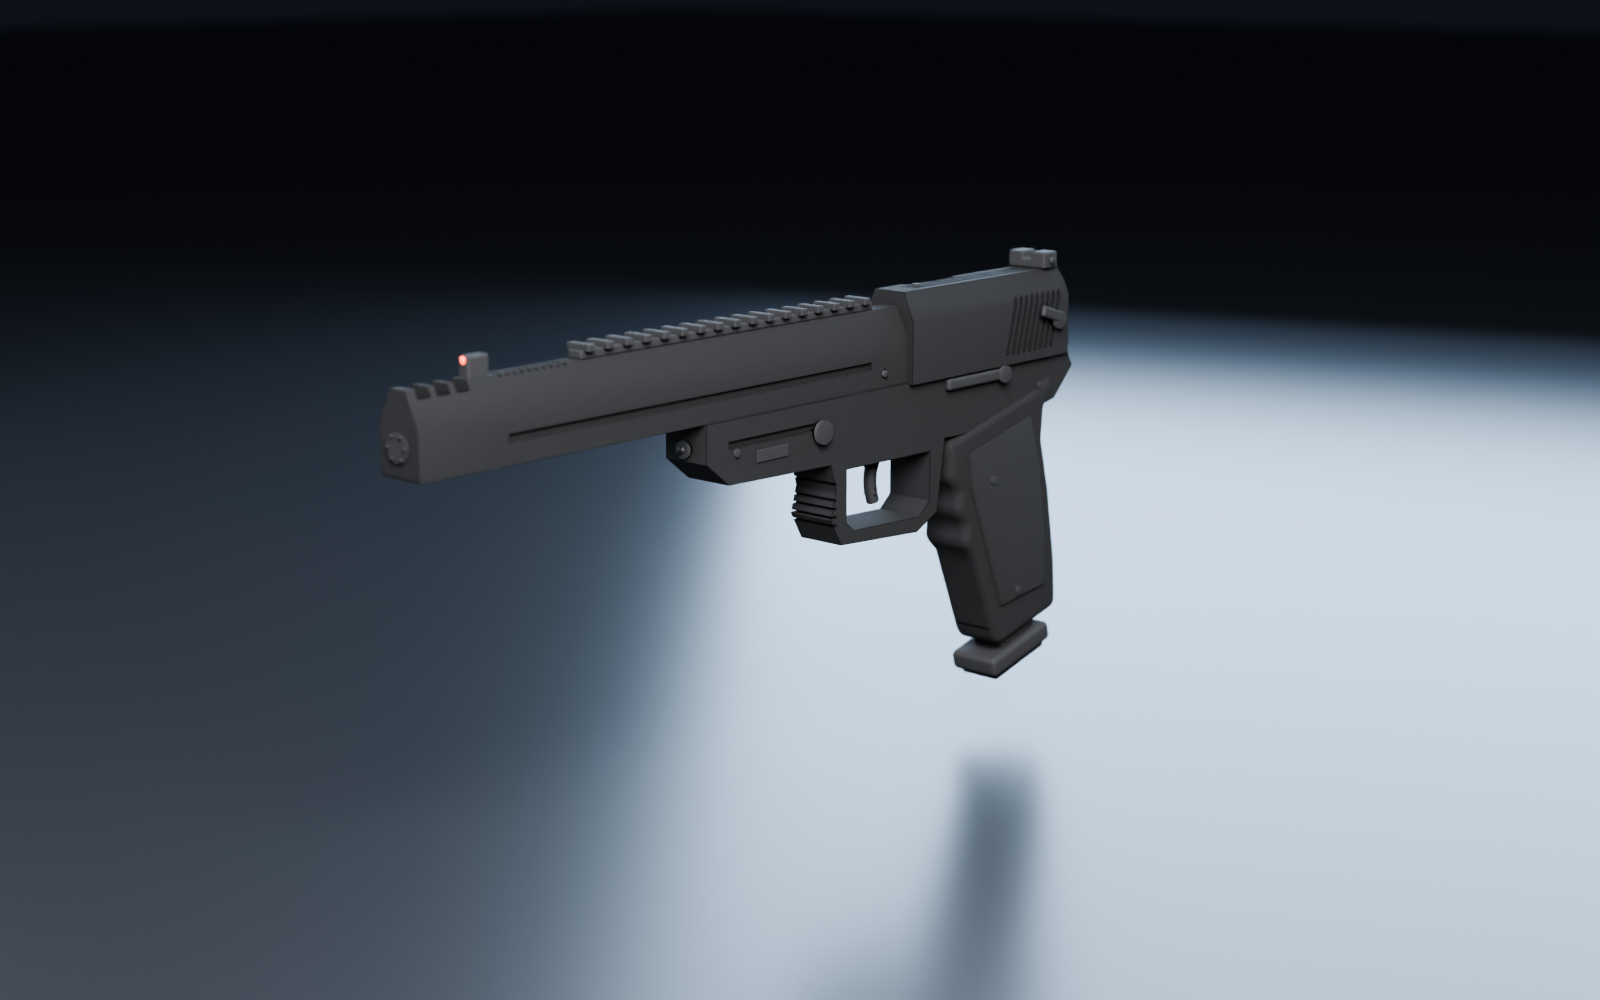
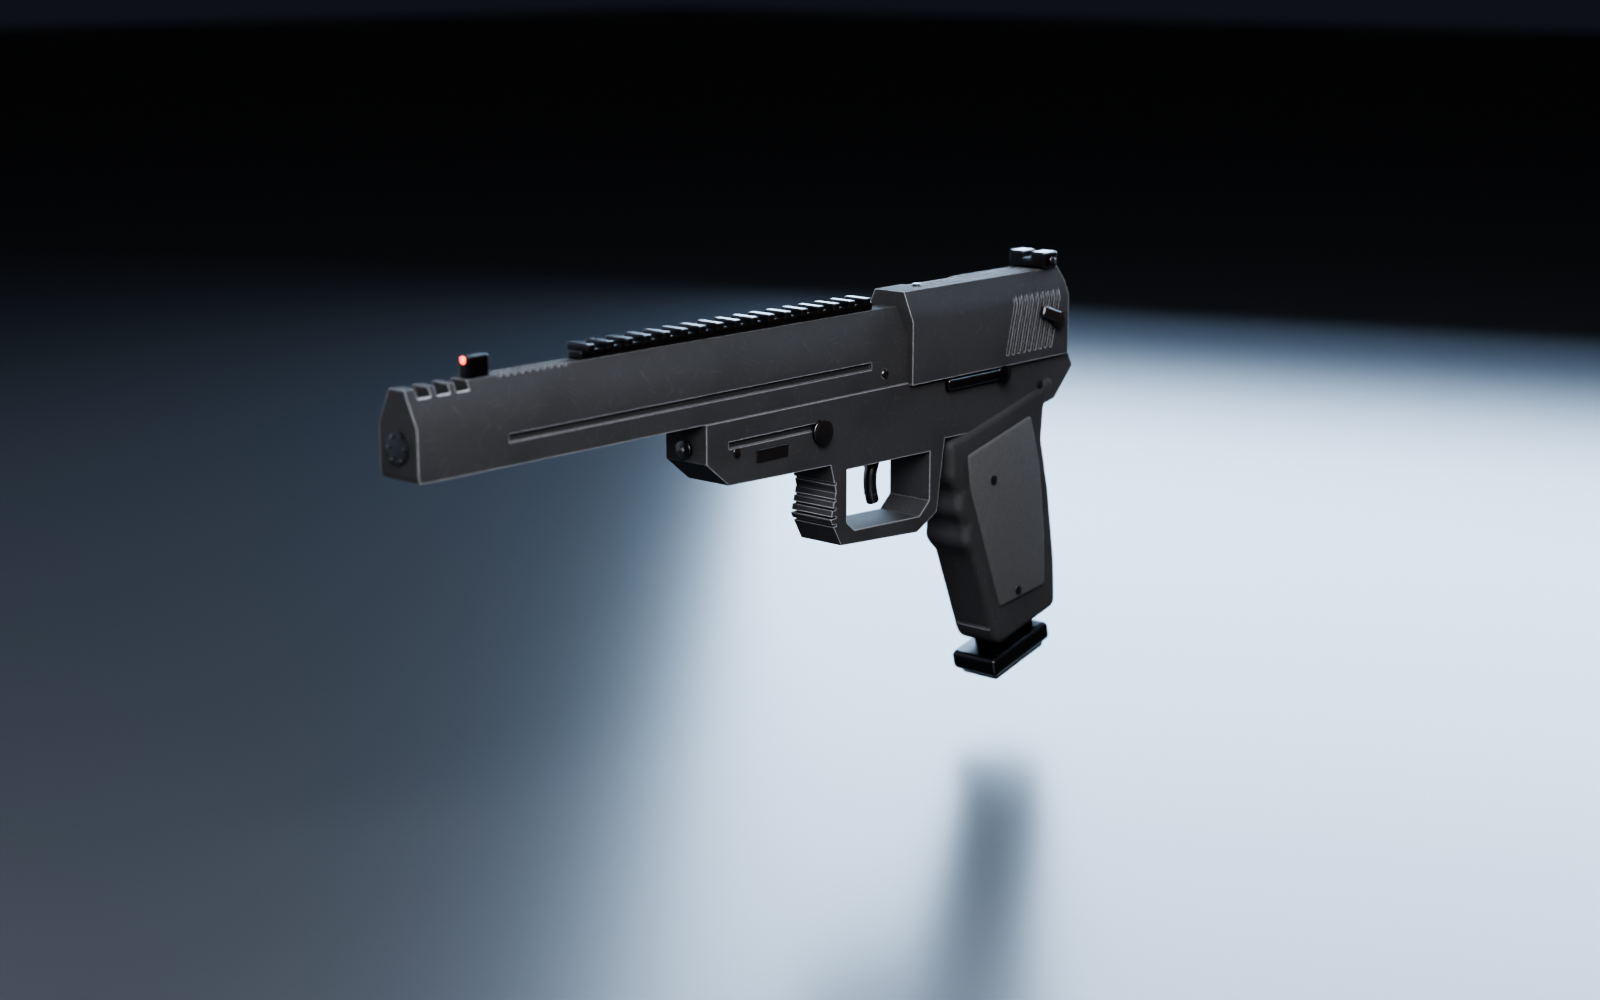
Sovereign : rendu métal peint façon GTA (reflets studio, usure, pièces noires)
Claude-Session: https://claude.ai/code/session_01AyMZd2BC6KgDPCXRnUBJSV

diff --git a/originrp_sovereign/design/blib.py b/originrp_sovereign/design/blib.py
@@ -1,0 +1,189 @@
+# Outils de modélisation « hard surface » + matières usées façon armes GTA
+import bpy, bmesh, math
+from mathutils import Vector, Matrix
+
+def reset():
+    bpy.ops.wm.read_factory_settings(use_empty=True)
+
+def _link(o, col=None):
+    (col or bpy.context.scene.collection).objects.link(o)
+    return o
+
+def mesh_obj(name, bm, mat=None, parent=None):
+    me = bpy.data.meshes.new(name); bm.to_mesh(me); bm.free()
+    o = bpy.data.objects.new(name, me); _link(o)
+    if mat: me.materials.append(mat)
+    for p in me.polygons: p.use_smooth = True
+    if parent: o.parent = parent
+    return o
+
+def finish(o, bevel=0.0, seg=3, angle=35, weighted=True, sub=0):
+    if bevel > 0:
+        m = o.modifiers.new('bevel', 'BEVEL'); m.width = bevel; m.segments = seg
+        m.limit_method = 'ANGLE'; m.angle_limit = math.radians(angle); m.harden_normals = False
+    if sub:
+        s = o.modifiers.new('sub', 'SUBSURF'); s.levels = sub; s.render_levels = sub
+    if weighted:
+        w = o.modifiers.new('wn', 'WEIGHTED_NORMAL'); w.keep_sharp = True
+    return o
+
+def box(name, size, loc=(0, 0, 0), mat=None, bevel=0.0, seg=3, cuts=0, shape=None, rot=(0, 0, 0), parent=None, angle=35):
+    """Pavé (option : subdivisé puis déformé par `shape(v)` pour effiler / galber)."""
+    bm = bmesh.new()
+    bmesh.ops.create_cube(bm, size=1.0)
+    if cuts:
+        bmesh.ops.subdivide_edges(bm, edges=bm.edges[:], cuts=cuts, use_grid_fill=True)
+    for v in bm.verts:
+        v.co = Vector((v.co.x * size[0], v.co.y * size[1], v.co.z * size[2]))
+        if shape: v.co = shape(v.co)
+    o = mesh_obj(name, bm, mat, parent)
+    o.location = loc; o.rotation_euler = rot
+    return finish(o, bevel, seg, angle)
+
+def cyl(name, r, h, loc=(0, 0, 0), mat=None, rot=(0, 0, 0), verts=32, bevel=0.0, seg=2, r2=None, parent=None):
+    bm = bmesh.new()
+    bmesh.ops.create_cone(bm, cap_ends=True, cap_tris=False, segments=verts, radius1=r, radius2=r2 if r2 is not None else r, depth=h)
+    o = mesh_obj(name, bm, mat, parent); o.location = loc; o.rotation_euler = rot
+    return finish(o, bevel, seg, 30)
+
+def sphere(name, r, loc=(0, 0, 0), mat=None, scale=(1, 1, 1), parent=None, seg=32):
+    bm = bmesh.new(); bmesh.ops.create_uvsphere(bm, u_segments=seg, v_segments=seg // 2, radius=r)
+    for v in bm.verts: v.co = Vector((v.co.x * scale[0], v.co.y * scale[1], v.co.z * scale[2]))
+    o = mesh_obj(name, bm, mat, parent); o.location = loc
+    return o
+
+def torus(name, R, r, loc=(0, 0, 0), mat=None, rot=(0, 0, 0), parent=None):
+    bpy.ops.mesh.primitive_torus_add(major_radius=R, minor_radius=r, major_segments=40, minor_segments=12, location=loc, rotation=rot)
+    o = bpy.context.active_object; o.name = name
+    if mat: o.data.materials.append(mat)
+    for p in o.data.polygons: p.use_smooth = True
+    if parent: o.parent = parent
+    return o
+
+def text(name, s, size, loc, rot, mat, extrude=0.0004, parent=None, align='CENTER', font_bold=True):
+    cu = bpy.data.curves.new(name, 'FONT'); cu.body = s; cu.size = size; cu.extrude = extrude; cu.align_x = align; cu.align_y = 'CENTER'
+    o = bpy.data.objects.new(name, cu); _link(o); o.location = loc; o.rotation_euler = rot
+    o.data.materials.append(mat)
+    if parent: o.parent = parent
+    return o
+
+def boolean(target, cutter, op='DIFFERENCE'):
+    m = target.modifiers.new('bool_' + cutter.name, 'BOOLEAN'); m.object = cutter; m.operation = op; m.solver = 'EXACT'
+    # booléen après le biseau : les arêtes extérieures restent arrondies
+    wn = target.modifiers.find('wn')
+    if wn >= 0: target.modifiers.move(len(target.modifiers) - 1, wn)
+    cutter.hide_render = True; cutter.hide_viewport = True; cutter.display_type = 'WIRE'
+    return m
+
+def array(o, count, offset, relative=False):
+    m = o.modifiers.new('arr', 'ARRAY'); m.count = count
+    m.use_relative_offset = relative; m.use_constant_offset = not relative; m.constant_offset_displace = offset
+    o.modifiers.move(len(o.modifiers) - 1, 0)
+    return o
+
+# ─── Matières ───
+def _nodes(mat):
+    mat.use_nodes = True; nt = mat.node_tree; nt.nodes.clear()
+    out = nt.nodes.new('ShaderNodeOutputMaterial'); bs = nt.nodes.new('ShaderNodeBsdfPrincipled')
+    nt.links.new(bs.outputs['BSDF'], out.inputs['Surface'])
+    return nt, bs
+
+def mat(name, color, rough=0.5, metal=0.0, wear=0.0, wear_color=None, wear_rough=None, grain=0.0, grain_scale=600.0, coat=0.0, emit=None, emit_strength=0.0, dust=0.0, alpha=1.0, transmission=0.0):
+    """Principled + usure des arêtes (normale biseautée vs normale réelle) + grain + poussière."""
+    m = bpy.data.materials.new(name); nt, bs = _nodes(m); L = nt.links.new
+    m["p"] = {"c": list(color), "r": rough, "m": metal, "e": list(emit) if emit else None, "es": emit_strength, "coat": coat}
+    base = nt.nodes.new('ShaderNodeRGB'); base.outputs[0].default_value = (*color, 1)
+    col_out = base.outputs[0]
+    rough_v = nt.nodes.new('ShaderNodeValue'); rough_v.outputs[0].default_value = rough; rough_out = rough_v.outputs[0]
+    if wear > 0:
+        bev = nt.nodes.new('ShaderNodeBevel'); bev.inputs['Radius'].default_value = 0.003; bev.samples = 8
+        geo = nt.nodes.new('ShaderNodeNewGeometry')
+        dot = nt.nodes.new('ShaderNodeVectorMath'); dot.operation = 'DOT_PRODUCT'
+        L(bev.outputs[0], dot.inputs[0]); L(geo.outputs['Normal'], dot.inputs[1])
+        inv = nt.nodes.new('ShaderNodeMath'); inv.operation = 'SUBTRACT'; inv.inputs[0].default_value = 1.0; L(dot.outputs['Value'], inv.inputs[1])
+        noise = nt.nodes.new('ShaderNodeTexNoise'); noise.inputs['Scale'].default_value = 90; noise.inputs['Detail'].default_value = 8
+        mul = nt.nodes.new('ShaderNodeMath'); mul.operation = 'MULTIPLY'; L(inv.outputs[0], mul.inputs[0]); L(noise.outputs['Fac'], mul.inputs[1])
+        ramp = nt.nodes.new('ShaderNodeValToRGB'); ramp.color_ramp.elements[0].position = 0.0; ramp.color_ramp.elements[1].position = max(0.01, 0.12 / wear)
+        L(mul.outputs[0], ramp.inputs['Fac'])
+        wc = nt.nodes.new('ShaderNodeRGB'); wc.outputs[0].default_value = (*(wear_color or (0.35, 0.35, 0.36)), 1)
+        mix = nt.nodes.new('ShaderNodeMix'); mix.data_type = 'RGBA'
+        L(ramp.outputs['Color'], mix.inputs['Factor']); L(col_out, mix.inputs[6]); L(wc.outputs[0], mix.inputs[7]); col_out = mix.outputs[2]
+        if wear_rough is not None:
+            mr = nt.nodes.new('ShaderNodeMix'); mr.data_type = 'FLOAT'; mr.inputs[2].default_value = rough; mr.inputs[3].default_value = wear_rough
+            L(ramp.outputs['Color'], mr.inputs['Factor']); rough_out = mr.outputs[0]
+    if dust > 0:
+        nz = nt.nodes.new('ShaderNodeTexNoise'); nz.inputs['Scale'].default_value = 25; nz.inputs['Detail'].default_value = 6
+        rp = nt.nodes.new('ShaderNodeValToRGB'); rp.color_ramp.elements[0].position = .55; rp.color_ramp.elements[1].position = .8
+        L(nz.outputs['Fac'], rp.inputs['Fac'])
+        mm = nt.nodes.new('ShaderNodeMath'); mm.operation = 'MULTIPLY'; mm.inputs[1].default_value = dust; L(rp.outputs['Color'], mm.inputs[0])
+        dc = nt.nodes.new('ShaderNodeRGB'); dc.outputs[0].default_value = (0.22, 0.2, 0.17, 1)
+        mx = nt.nodes.new('ShaderNodeMix'); mx.data_type = 'RGBA'; L(mm.outputs[0], mx.inputs['Factor']); L(col_out, mx.inputs[6]); L(dc.outputs[0], mx.inputs[7]); col_out = mx.outputs[2]
+    L(col_out, bs.inputs['Base Color']); L(rough_out, bs.inputs['Roughness'])
+    bs.inputs['Metallic'].default_value = metal
+    if coat: bs.inputs['Coat Weight'].default_value = coat; bs.inputs['Coat Roughness'].default_value = 0.08
+    if grain > 0:
+        gn = nt.nodes.new('ShaderNodeTexNoise'); gn.inputs['Scale'].default_value = grain_scale; gn.inputs['Detail'].default_value = 4
+        bp = nt.nodes.new('ShaderNodeBump'); bp.inputs['Strength'].default_value = grain; bp.inputs['Distance'].default_value = 0.0005
+        L(gn.outputs['Fac'], bp.inputs['Height']); L(bp.outputs['Normal'], bs.inputs['Normal'])
+    if emit:
+        bs.inputs['Emission Color'].default_value = (*emit, 1); bs.inputs['Emission Strength'].default_value = emit_strength
+    if transmission: bs.inputs['Transmission Weight'].default_value = transmission
+    if alpha < 1: bs.inputs['Alpha'].default_value = alpha
+    return m
+
+def carbon(name):
+    m = bpy.data.materials.new(name); nt, bs = _nodes(m); L = nt.links.new
+    m["p"] = {"c": [0.02, 0.02, 0.022], "r": 0.32, "m": 0.0, "e": None, "es": 0, "coat": 0.8}
+    tc = nt.nodes.new('ShaderNodeTexCoord'); mp = nt.nodes.new('ShaderNodeMapping'); mp.inputs['Rotation'].default_value[2] = math.radians(45)
+    L(tc.outputs['Object'], mp.inputs['Vector'])
+    ck = nt.nodes.new('ShaderNodeTexChecker'); ck.inputs['Scale'].default_value = 900
+    ck.inputs['Color1'].default_value = (0.012, 0.012, 0.013, 1); ck.inputs['Color2'].default_value = (0.04, 0.04, 0.045, 1)
+    L(mp.outputs['Vector'], ck.inputs['Vector']); L(ck.outputs['Color'], bs.inputs['Base Color'])
+    bs.inputs['Roughness'].default_value = 0.32; bs.inputs['Coat Weight'].default_value = 0.8; bs.inputs['Coat Roughness'].default_value = 0.05
+    return m
+
+# ─── Studio « vitrine Ammu-Nation » ───
+def studio(target=(0, 0, 0.1), cam_loc=(0.75, -0.75, 0.45), lens=55, res=(1600, 1000), samples=96, floor=True):
+    sc = bpy.context.scene
+    sc.render.engine = 'CYCLES'; sc.cycles.device = 'CPU'; sc.cycles.samples = samples; sc.cycles.use_denoising = True
+    sc.render.resolution_x, sc.render.resolution_y = res; sc.render.film_transparent = False
+    sc.view_settings.view_transform = 'AgX'; sc.view_settings.look = 'AgX - Medium High Contrast'
+    w = bpy.data.worlds.new('w'); sc.world = w; w.use_nodes = True
+    bg = w.node_tree.nodes['Background']; bg.inputs[0].default_value = (0.012, 0.014, 0.02, 1); bg.inputs[1].default_value = 1.0
+    # environnement de reflets (invisible à la caméra) : dégradé studio sombre + bande douce à l'horizon -> vrai rendu métal
+    wn = w.node_tree.nodes; wl = w.node_tree.links.new
+    tc = wn.new('ShaderNodeTexCoord'); sep = wn.new('ShaderNodeSeparateXYZ'); wl(tc.outputs['Generated'], sep.inputs[0])
+    rp = wn.new('ShaderNodeValToRGB'); e = rp.color_ramp.elements
+    e[0].position = .35; e[0].color = (0.004, 0.004, 0.005, 1); e[1].position = 1.0; e[1].color = (0.03, 0.035, 0.045, 1)
+    for pos, c in ((.5, (0.006, 0.006, 0.007, 1)), (.56, (0.16, 0.17, 0.19, 1)), (.64, (0.05, 0.055, 0.065, 1))):
+        el = e.new(pos); el.color = c
+    wl(sep.outputs['Z'], rp.inputs['Fac'])
+    env = wn.new('ShaderNodeBackground'); wl(rp.outputs['Color'], env.inputs['Color'])
+    lp = wn.new('ShaderNodeLightPath'); mx = wn.new('ShaderNodeMixShader')
+    wl(lp.outputs['Is Camera Ray'], mx.inputs[0]); wl(env.outputs[0], mx.inputs[1]); wl(bg.outputs[0], mx.inputs[2])
+    wl(mx.outputs[0], wn['World Output'].inputs['Surface'])
+    if floor:
+        fm = mat('floor', (0.02, 0.022, 0.026), rough=0.28, grain=0.0)
+        bpy.ops.mesh.primitive_plane_add(size=20, location=(0, 0, 0)); f = bpy.context.active_object; f.data.materials.append(fm)
+    def area(name, loc, energy, color, size, tgt=target):
+        ld = bpy.data.lights.new(name, 'AREA'); ld.energy = energy; ld.color = color; ld.size = size
+        lo = bpy.data.objects.new(name, ld); _link(lo); lo.location = loc
+        d = Vector(tgt) - Vector(loc); lo.rotation_euler = d.to_track_quat('-Z', 'Y').to_euler()
+        return lo
+    area('key', (0.9, -0.9, 1.1), 90, (1.0, 0.93, 0.85), 0.9)
+    area('fill', (-1.1, -0.6, 0.5), 25, (0.75, 0.85, 1.0), 1.2)
+    area('rim', (-0.4, 1.1, 0.8), 140, (0.55, 0.75, 1.0), 0.5)
+    area('rim2', (1.0, 0.9, 0.35), 60, (1.0, 0.55, 0.3), 0.4)
+    area('top', (0, 0, 1.6), 12, (1, 1, 1), 1.5)
+    cd = bpy.data.cameras.new('cam'); cd.lens = lens; cd.dof.use_dof = True; cd.dof.aperture_fstop = 5.6
+    co = bpy.data.objects.new('cam', cd); _link(co); co.location = cam_loc
+    d = Vector(target) - Vector(cam_loc); co.rotation_euler = d.to_track_quat('-Z', 'Y').to_euler()
+    cd.dof.focus_distance = d.length
+    sc.camera = co
+    return co
+
+def aim(cam, loc, target):
+    cam.location = loc; d = Vector(target) - Vector(loc); cam.rotation_euler = d.to_track_quat('-Z', 'Y').to_euler(); cam.data.dof.focus_distance = d.length
+
+def render(path):
+    bpy.context.scene.render.filepath = path; bpy.ops.render.render(write_still=True)

diff --git a/originrp_sovereign/design/deagle_model.py b/originrp_sovereign/design/deagle_model.py
@@ -51,9 +51,9 @@ def finish_part(o, mat_, bevel=0.0009, uv=None, parent=None):
     return o
 
 # finitions unies : (couleur peinture sRGB, teinte linéaire des pièces métal, rugosité, métal)
-SOLID = {'bleu': ((28, 78, 190), (0.015, 0.045, 0.16), 0.32, 0.35),
-         'rose': ((236, 92, 160), (0.2, 0.03, 0.09), 0.32, 0.3),
-         'noirmat': ((22, 22, 23), (0.012, 0.012, 0.013), 0.75, 0.0)}
+SOLID = {'bleu': ((22, 62, 160), None, 0.34, 0.65),
+         'rose': ((214, 78, 142), None, 0.34, 0.6),
+         'noirmat': ((24, 24, 26), None, 0.62, 0.35)}
 
 def build_deagle(finish='noir'):
     if finish in SOLID: return build_solid(finish)
@@ -71,15 +71,15 @@ def _build(finish, sol):
     stip = stipple(os.path.join(TEX, 'stipple.png'))
     if sol:
         # tout de la même couleur : peinture unie + pièces métal teintées
-        tw = tuple(c * 0.5 for c in tint)
+        # peinture couleur sur la carcasse ; acier bronzé, caoutchouc et rail restent noirs (contraste façon GTA)
         M = {
-            'camo': camo_mat(f'camo_{finish}', camo, rough=rgh, metal=mtl, wear_col=tw),
-            'steel': mat(f'steel_{finish}', tint, rough=min(rgh + .05, .8), metal=mtl, wear=0.4, wear_color=tw, wear_rough=rgh),
-            'polish': mat(f'polish_{finish}', tint, rough=rgh, metal=mtl),
-            'rubber': mat(f'rubber_{finish}', tw, rough=0.85, grain=1.6, grain_scale=380),
+            'camo': camo_mat(f'camo_{finish}', camo, rough=rgh, metal=mtl, wear_col=(0.3, 0.3, 0.32)),
+            'steel': mat(f'steel_{finish}', (0.02, 0.02, 0.022), rough=0.3, metal=1.0, wear=0.6, wear_color=(0.14, 0.14, 0.15), wear_rough=0.25),
+            'polish': mat(f'polish_{finish}', (0.06, 0.06, 0.065), rough=0.3, metal=1.0),
+            'rubber': mat(f'rubber_{finish}', (0.008, 0.008, 0.009), rough=0.85, grain=1.6, grain_scale=380),
             'dark': mat(f'bore_{finish}', (0.002, 0.002, 0.002), rough=0.5),
             'fiber': mat(f'fiber_{finish}', (0.6, 0.02, 0.01), rough=0.15, emit=(1.0, 0.05, 0.02), emit_strength=12),
-            'panel': mat(f'panel_{finish}', tw, rough=0.85, grain=1.6, grain_scale=380),
+            'panel': rubber_mat(f'panel_{finish}', stip),
             'dot': mat(f'dot_{finish}', (0.03, 0.03, 0.03), rough=0.5),
         }
         UVS = 0.11
@@ -247,7 +247,7 @@ if __name__ == '__main__':
         r.rotation_euler = (0, 0, math.radians(-90)); r.location = (0, 0, 0.17)
         cam = studio(target=(0.0, -0.12, 0.15), cam_loc=(0.78, -1.0, 0.42), lens=55, samples=spp, res=(1600, 1000))
         L = bpy.data.lights; L['rim2'].energy = 1.2; L['key'].color = (0.96, 0.97, 1.0); L['key'].energy *= 1.3; L['fill'].energy = 9
-        L['rim'].energy *= 0.4; L['top'].energy *= 0.3
+        L['rim'].energy *= 0.6; L['top'].energy *= 0.3
         for n in ('rim', 'rim2', 'top'): L[n].size *= 3
         render(os.path.join(out, f'de_{finish}_34.png'))
         aim(cam, (-0.95, -0.13, 0.15), (0.0, -0.13, 0.15)); render(os.path.join(out, f'de_{finish}_side.png'))

diff --git a/originrp_sovereign/design/gun_model.py b/originrp_sovereign/design/gun_model.py
@@ -383,4 +383,10 @@ def solid(path, col):
     n = tile_noise(64, 5, 0).resize((S, S))
     img = Image.new('RGB', (S, S), col)
     dk = Image.new('RGB', (S, S), tuple(int(c * .88) for c in col))
-    Image.composite(dk, img, n.point(lambda v: int(v * .5))).save(path); return path
+    img = Image.composite(dk, img, n.point(lambda v: int(v * .5)))
+    # crasse dans les zones peu manipulées + micro-rayures : aspect peinture cerakote usée
+    g = tile_noise(6, 17, 10).resize((S, S)).point(lambda v: max(0, v - 120) * 1.4).point(int)
+    img = Image.composite(Image.new('RGB', (S, S), tuple(int(c * .55) for c in col)), img, g)
+    scratches(img, 260, tuple(min(255, int(c * 1.25 + 25)) for c in col), 11)
+    scratches(img, 140, tuple(int(c * .6) for c in col), 12)
+    img.save(path); return path
